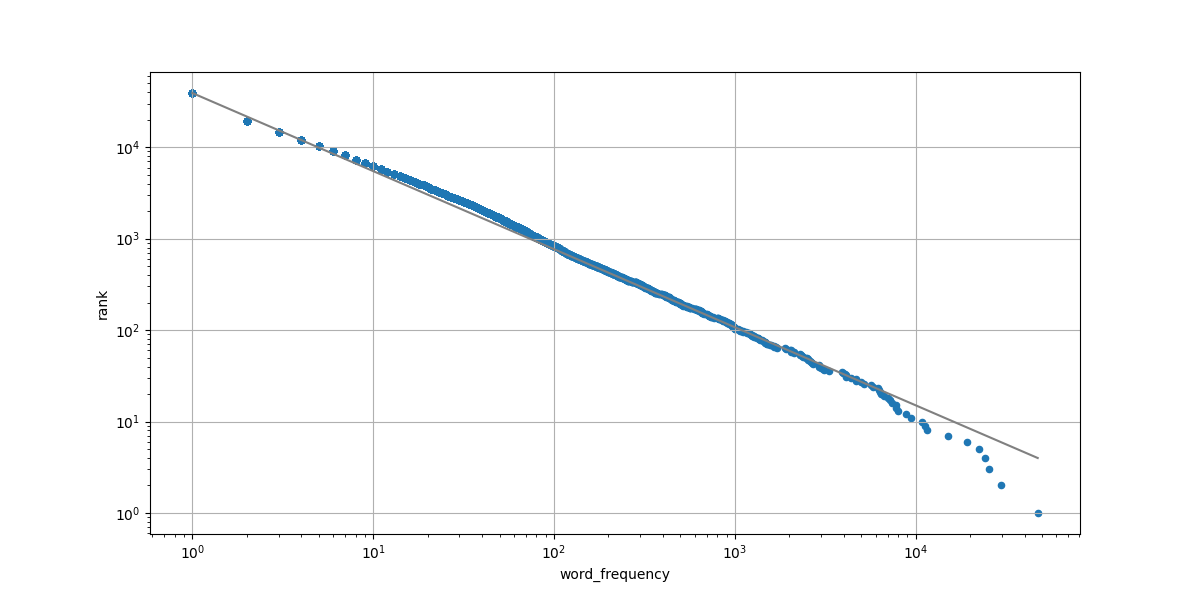
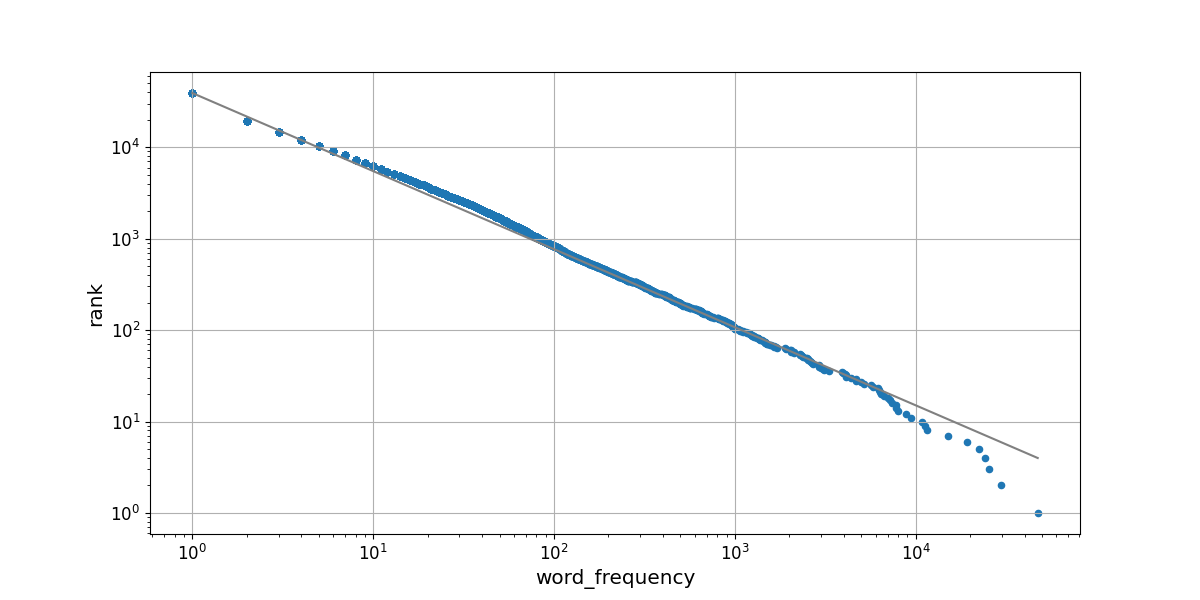
Updated Makefile to include config for plot params

diff --git a/bin/plotcounts.py b/bin/plotcounts.py
@@ -2,8 +2,10 @@
 
 import argparse
 
+import yaml
 import numpy as np
 import pandas as pd
+import matplotlib as mpl
 from scipy.optimize import minimize_scalar
 
 def nlog_likelihood(beta, counts):
@@ -36,6 +38,17 @@ def get_power_law_params(word_counts):
     return alpha
 
 
+def set_plot_params(param_file):
+    """Set the matplotlib parameters."""
+    if param_file:
+        with open(param_file, 'r') as reader:
+            param_dict = yaml.load(reader,
+                                   Loader=yaml.BaseLoader)
+    else:
+        param_dict = {}
+    for param, value in param_dict.items():
+        mpl.rcParams[param] = value
+
 def plot_fit(curve_xmin, curve_xmax, max_rank, alpha, ax):
     """
     Plot the power law curve that was fitted to the data.
@@ -60,6 +73,7 @@ def plot_fit(curve_xmin, curve_xmax, max_rank, alpha, ax):
 
 def main(args):
     "Run the program."
+    set_plot_params(args.plotparams)
     df = pd.read_csv(args.infile, header=None,
                     names=('word', 'word_frequency'))
     df['rank'] = df['word_frequency'].rank(ascending=False,
@@ -96,6 +110,8 @@ if __name__ == '__main__':
     parser.add_argument('--xlim', type=float, nargs=2,
                         metavar=('XMIN', 'XMAX'),
                         default=None, help='X-axis bounds')
+    parser.add_argument('--plotparams', type=str, default=None,
+                        help='matplot lib paramters (YAML file)')
     args = parser.parse_args()
     main(args)
 
